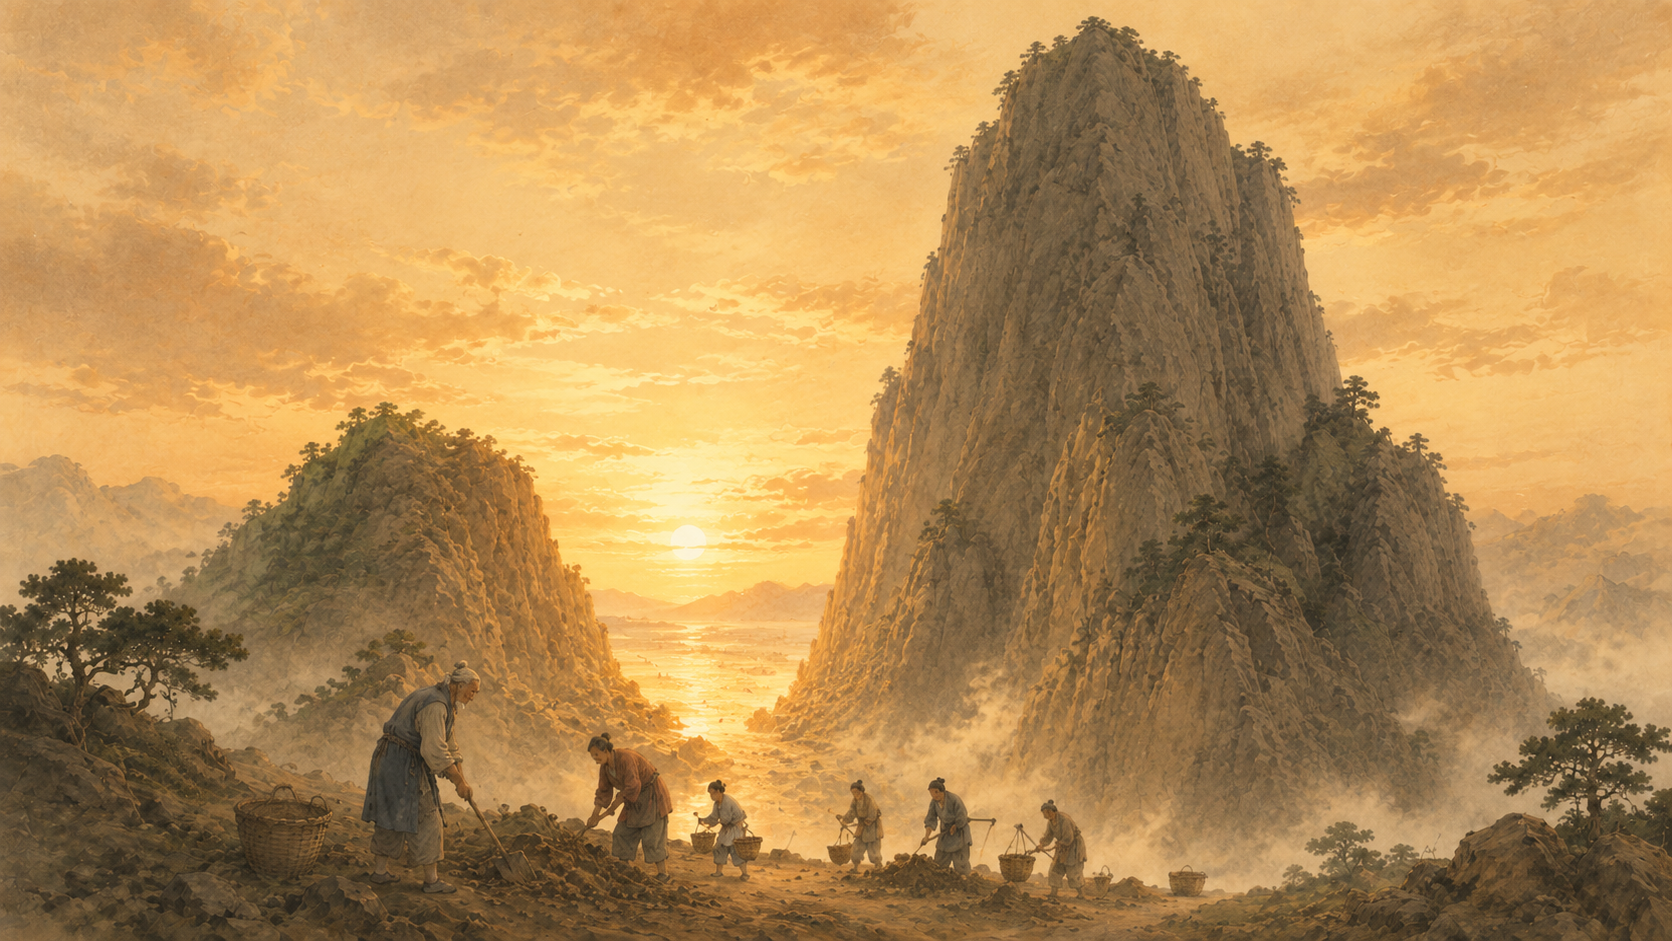
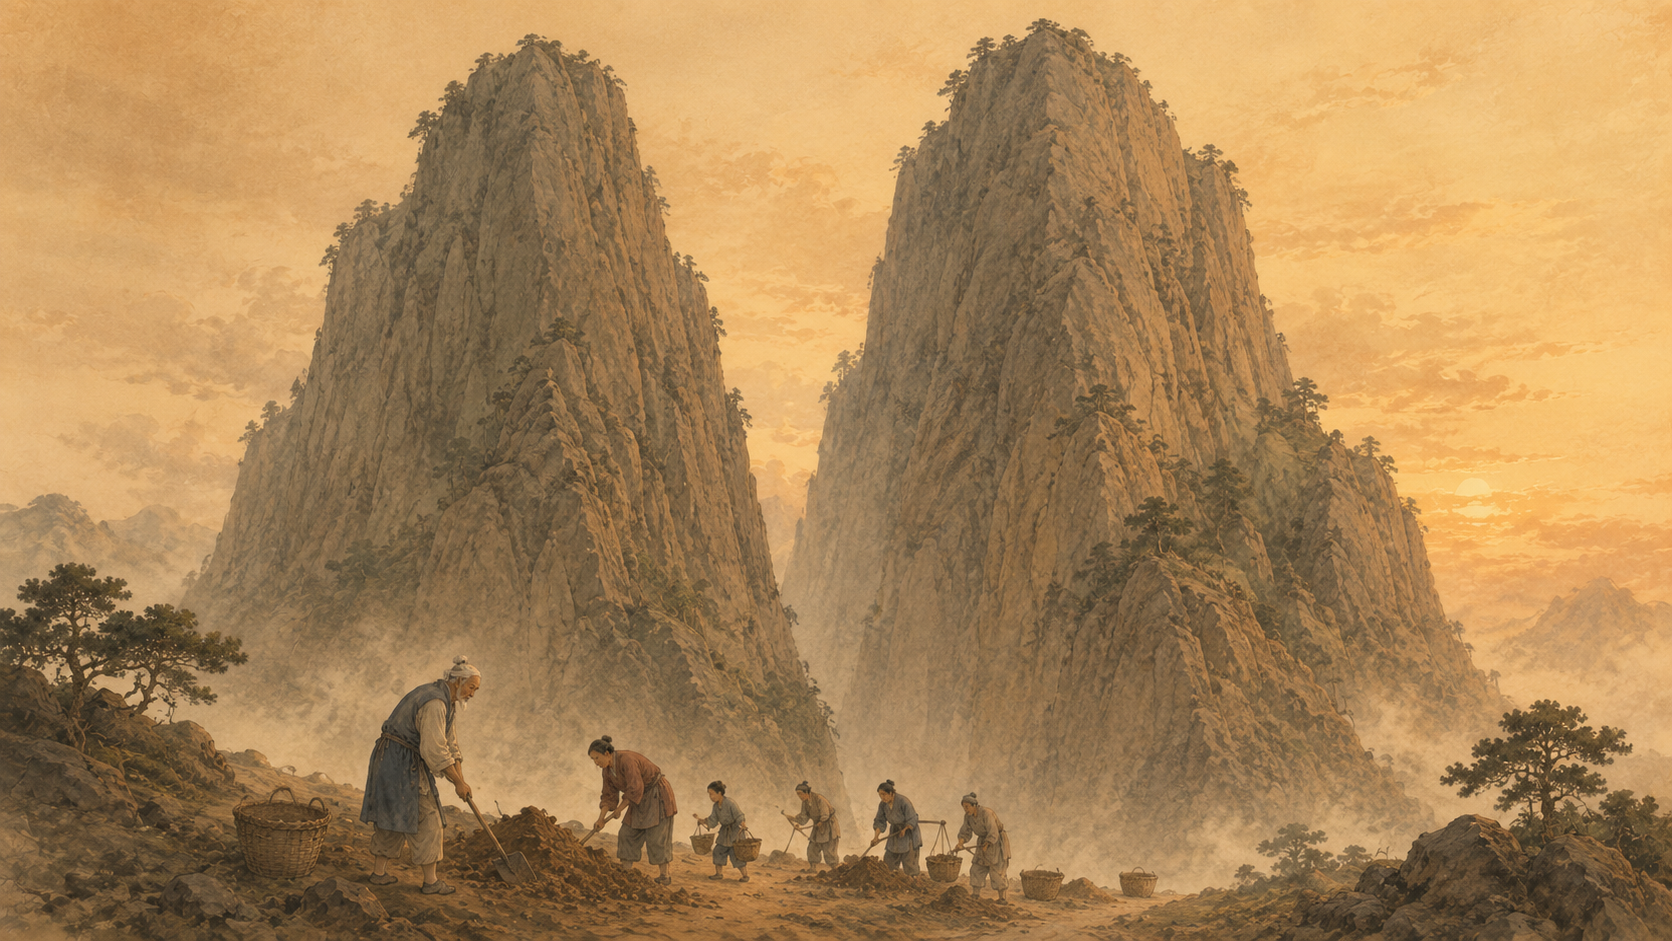
우공이산 3장면 구성으로 확장: 산 앞에 선 우공 삽화 추가
- 새 삽화(산을 올려다보는 우공)를 도입 1번으로, 기존 삽화를 2·3번으로 재배치

diff --git a/index.html b/index.html
@@ -274,14 +274,14 @@ const IDIOMS = [
     situation:"매일 조금씩, 산을 퍼 나르듯 꾸준히 하면 언젠가 목표를 이룬다.",
     script:[
       {img:1,n:1,t:"아흔 살 우공의 집 앞을, 두 개의 큰 산이 가로막고 있었다."},
-      {img:1,s:"우공",t:"온 가족이 힘을 모아 이 산을 파서 옮기자!"},
-      {img:1,s:"지수",t:"늙은 몸으로 언제 저 산을 다 옮기겠소? 어리석은 일이오."},
-      {img:1,choice:"우공은 뭐라 답할까?",opts:[
+      {img:2,s:"우공",t:"온 가족이 힘을 모아 이 산을 파서 옮기자!"},
+      {img:2,s:"지수",t:"늙은 몸으로 언제 저 산을 다 옮기겠소? 어리석은 일이오."},
+      {img:2,choice:"우공은 뭐라 답할까?",opts:[
         {label:"“그렇군, 포기하겠소.”",fb:"그러나 우공은 포기할 사람이 아니었다."},
         {label:"“내가 죽어도 자손이 이어가면 되오.”",fb:"우공의 눈빛은 단단했다. 대를 이어서라도."}
       ]},
-      {img:2,n:1,t:"쉬지 않는 우공의 꾸준함에 감동한 하늘이, 마침내 산을 옮겨 주었다."},
-      {img:2,n:1,t:"멈추지 않는 노력 앞에 불가능은 없다는 이야기다."}
+      {img:3,n:1,t:"쉬지 않는 우공의 꾸준함에 감동한 하늘이, 마침내 산을 옮겨 주었다."},
+      {img:3,n:1,t:"멈추지 않는 노력 앞에 불가능은 없다는 이야기다."}
     ]
   },
   {